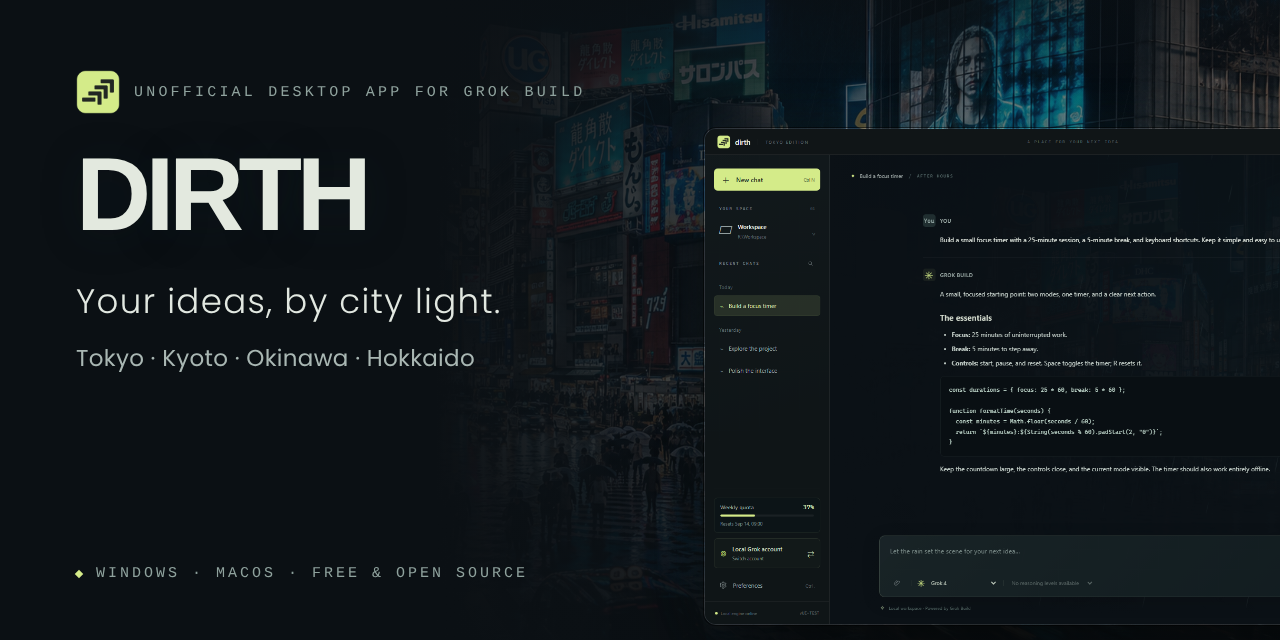
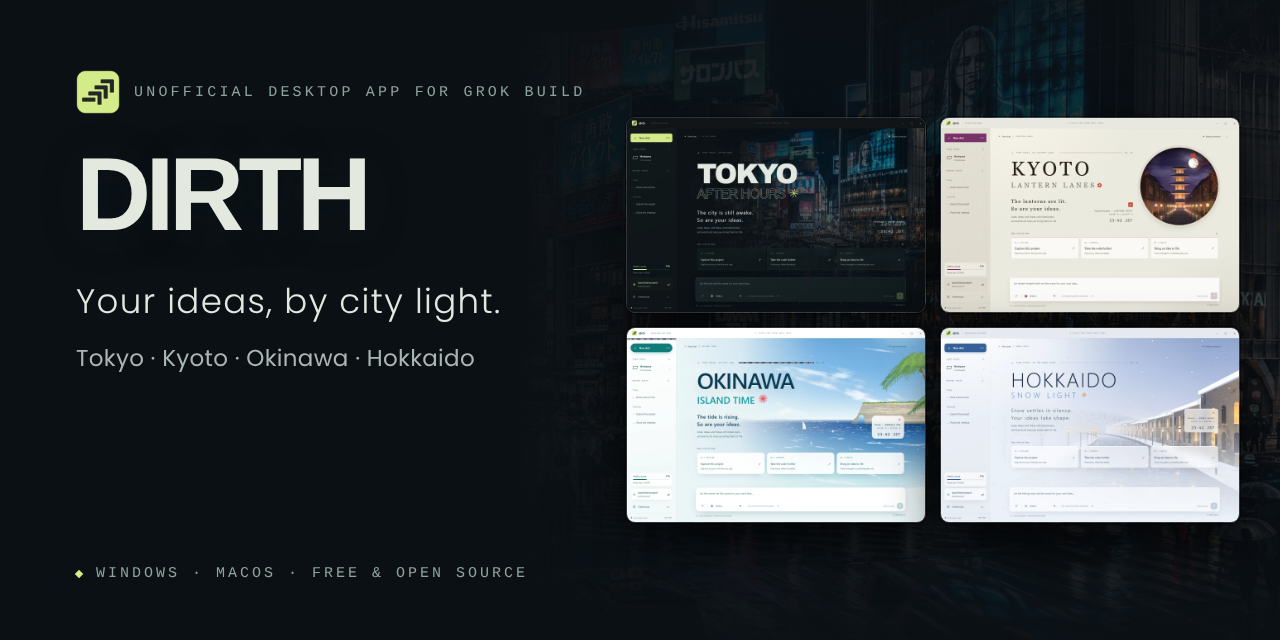
Show all four city editions on the README, and fix its broken links
The README's download buttons, badges, issue links and clone command used
swf-cmd/dirth, an address that does not exist, so every download, the
release badge and "Report a bug" were broken on the repository's own page.
They now use swf-cmd/grokbuild-tokyo, and a short FAQ entry explains why
the repository keeps its earlier name.

The intro showed only Tokyo. A new "Four cities, one workspace" gallery
shows the real Windows welcome screen of Tokyo, Kyoto, Okinawa and Hokkaido
(English and Chinese), each with its weather and soundtrack, as WebP
images of about 80-180 KB each. The social preview card now shows the four
editions as well, and the compatibility notes record that Grok Build up to
1.0.70 keeps the protocol and session methods the app uses.

Claude-Session: https://claude.ai/code/session_01VCJSXizJQ3NMUPR7FMnUgs

diff --git a/docs/images/social-preview.html b/docs/images/social-preview.html
@@ -4,8 +4,9 @@
 <meta charset="utf-8">
 <!--
   Source for social-preview.png, the 1280 x 640 card GitHub shows when the repository
-  link is shared. It combines the real app-en.png capture with the app's background
-  and icon. See README.md in this folder for how to render it.
+  link is shared. It places the real welcome-screen captures of the four city
+  editions (the README's city gallery) beside the app's icon, over its Shibuya
+  background. See README.md in this folder for how to render it.
 -->
 <title>Dirth social preview</title>
 <style>
@@ -14,23 +15,20 @@
   html, body { width:1280px; height:640px; background:var(--bg); overflow:hidden; }
   body { position:relative; font-family:"Poppins", "Segoe UI", sans-serif; color:var(--text); }
 
-  /* City: right two thirds, fading into the solid left column like the app's backdrop */
-  .city { position:absolute; inset:0; background-image:url("../../src/renderer/assets/tokyo-rain.png"); background-size:cover; background-position:72% 30%; opacity:.92; }
+  /* City: right half, fading into the solid left column like the app's backdrop */
+  .city { position:absolute; inset:0; background-image:url("../../src/renderer/assets/tokyo-rain.png"); background-size:cover; background-position:72% 30%; opacity:.7; }
   .shade { position:absolute; inset:0;
     background:
-      linear-gradient(90deg, #0b1014 0%, #0b1014 34%, #0b1014d9 46%, #0b101470 66%, #0b101430 100%),
+      linear-gradient(90deg, #0b1014 0%, #0b1014 40%, #0b1014cc 54%, #0b101499 100%),
       linear-gradient(0deg, #0b1014e6 0%, #0b101400 38%),
       linear-gradient(180deg, #0b1014aa 0%, #0b101400 22%); }
-  .rain { position:absolute; inset:0; opacity:.22;
-    background-image: repeating-linear-gradient(103deg, transparent 0 22px, #cfe3ff22 22px 23px, transparent 23px 61px);
-    mask-image: linear-gradient(90deg, transparent 30%, #000 70%); }
 
-  /* App window */
-  .window { position:absolute; left:704px; top:128px; width:760px; border-radius:12px; overflow:hidden;
-    border:1px solid #ffffff1f; box-shadow: 0 30px 80px #000c, 0 0 0 1px #00000080, 0 0 60px #6fb7c418; }
-  .window img { display:block; width:100%; }
+  /* The four city editions, as real app windows */
+  .cities { position:absolute; left:626px; top:117px; display:grid; grid-template-columns:repeat(2, 300px); gap:14px; }
+  .cities img { display:block; width:300px; height:196px; border-radius:9px; border:1px solid #ffffff26;
+    box-shadow: 0 22px 50px #000b, 0 0 0 1px #00000080; }
 
-  .copy { position:absolute; left:76px; top:70px; width:600px; }
+  .copy { position:absolute; left:76px; top:70px; width:540px; }
   .eyebrow { display:flex; align-items:center; gap:14px; font-family:"Liberation Mono", Consolas, monospace; font-size:15px; letter-spacing:3.2px; color:#8fa29d; text-transform:uppercase; }
   .eyebrow img { width:44px; height:44px; }
   .title { margin-top:34px; font-family:"Liberation Sans", Arial, sans-serif; font-weight:700; line-height:.9; }
@@ -43,9 +41,13 @@
 </head>
 <body>
   <div class="city"></div>
-  <div class="rain"></div>
   <div class="shade"></div>
-  <div class="window"><img src="app-en.png" alt=""></div>
+  <div class="cities">
+    <img src="city-tokyo-en.webp" alt="">
+    <img src="city-kyoto-en.webp" alt="">
+    <img src="city-okinawa-en.webp" alt="">
+    <img src="city-hokkaido-en.webp" alt="">
+  </div>
   <div class="copy">
     <div class="eyebrow"><img src="../../src/renderer/assets/icon.png" alt="">Unofficial desktop app for Grok Build</div>
     <div class="title"><span class="solid">DIRTH</span></div>

diff --git a/README.md b/README.md
@@ -6,21 +6,21 @@
 
 **Your ideas, by city light.**
 
-A desktop app for the [Grok Build](https://x.ai/cli) coding agent: streaming chats, parallel tasks and separate accounts, with a city outside the window: rainy Tokyo nights, Kyoto lanterns, the Okinawa sea or Hokkaido snow.
+A desktop app for [Grok Build](https://x.ai/cli), SpaceXAI's terminal coding agent. Streaming chats, up to four tasks at once and separate account profiles, with a Japanese city outside the window: rainy Tokyo, lantern-lit Kyoto, sunny Okinawa or snowy Hokkaido.
 
 **English** · [简体中文](README.zh-CN.md)
 
-[![Tests](https://github.com/swf-cmd/dirth/actions/workflows/test.yml/badge.svg)](https://github.com/swf-cmd/dirth/actions/workflows/test.yml)
-[![Latest release](https://img.shields.io/github/v/release/swf-cmd/dirth?label=release&color=c1adff)](https://github.com/swf-cmd/dirth/releases/latest)
+[![Tests](https://github.com/swf-cmd/grokbuild-tokyo/actions/workflows/test.yml/badge.svg)](https://github.com/swf-cmd/grokbuild-tokyo/actions/workflows/test.yml)
+[![Latest release](https://img.shields.io/github/v/release/swf-cmd/grokbuild-tokyo?label=release&color=c1adff)](https://github.com/swf-cmd/grokbuild-tokyo/releases/latest)
 [![MIT License](https://img.shields.io/badge/license-MIT-71d6c6)](LICENSE)
 ![Windows x64](https://img.shields.io/badge/platform-Windows_x64-86b7f9)
 ![macOS 13+ · Intel + Apple Silicon](https://img.shields.io/badge/macOS-13%2B_Intel_%2B_Apple_Silicon-86b7f9)
 
-**[Download for Mac](https://github.com/swf-cmd/dirth/releases/download/v1.3.0/Dirth-1.3.0-mac-universal.zip) · [Download for Windows](https://github.com/swf-cmd/dirth/releases/download/v1.3.0/Dirth-1.3.0-win-x64.zip) · [All releases](https://github.com/swf-cmd/dirth/releases)**
+**[Download for Mac](https://github.com/swf-cmd/grokbuild-tokyo/releases/download/v1.3.0/Dirth-1.3.0-mac-universal.zip) · [Download for Windows](https://github.com/swf-cmd/grokbuild-tokyo/releases/download/v1.3.0/Dirth-1.3.0-win-x64.zip) · [All releases](https://github.com/swf-cmd/grokbuild-tokyo/releases)**
 
 <sub>Free and open source · Unofficial · Uses the official <a href="#install-grok-build">Grok Build CLI</a>, installed separately · Formerly Grokbuild Tokyo</sub>
 
-[Quick start](#quick-start) · [Features](#made-for-long-evenings-of-building) · [FAQ](#faq) · [User guide](docs/guide.md) · [Contribute](CONTRIBUTING.md) · [Report a bug](https://github.com/swf-cmd/dirth/issues/new/choose)
+[Quick start](#quick-start) · [Four cities](#four-cities-one-workspace) · [Features](#made-for-long-evenings-of-building) · [FAQ](#faq) · [User guide](docs/guide.md) · [Contribute](CONTRIBUTING.md) · [Report a bug](https://github.com/swf-cmd/grokbuild-tokyo/issues/new/choose)
 
 </div>
 
@@ -28,21 +28,52 @@ A desktop app for the [Grok Build](https://x.ai/cli) coding agent: streaming cha
 
 *Animated rain in the Windows interface, using an isolated demo profile. Mac uses native window controls and Command-key shortcuts. [Still image](docs/images/welcome-en.png?v=20261020) · [Capture details](docs/images/README.md).*
 
-[Grok Build](https://x.ai/cli) is the terminal coding agent from SpaceXAI (formerly xAI). Dirth is an **unofficial, open-source desktop app** for it: it starts the Grok Build CLI you installed and talks to it over the [Agent Client Protocol](https://agentclientprotocol.com/) (ACP). Your sign-in, models, tools, permission rules, MCP servers and skills stay exactly as the CLI configures them. The app gives them a window worth keeping open.
+[Grok Build](https://x.ai/cli) is the terminal coding agent from SpaceXAI (formerly xAI). Dirth is an **unofficial, open-source desktop app** for it: it starts the Grok Build CLI you installed and talks to it over the [Agent Client Protocol](https://agentclientprotocol.com/) (ACP), the same protocol editors use to embed it. Your sign-in, models, tools, permission rules, MCP servers and skills stay exactly as the CLI configures them. The app gives them a window worth keeping open.
 
 This project is not affiliated with or endorsed by SpaceXAI or xAI. Authentication, model access and usage are handled by the official CLI and your account.
+
+## Four cities, one workspace
+
+Pick a city in **Preferences** and the whole app follows: colors, type, the view outside the window, its weather and an original soundtrack that plays offline. Tokyo is the dark night edition; Kyoto, Okinawa and Hokkaido are light editions.
+
+<table>
+  <tr>
+    <td width="50%" valign="top">
+      <a href="docs/images/city-tokyo-en.webp"><img src="docs/images/city-tokyo-en.webp" alt="Tokyo edition: the dark interface over the Shibuya crossing on a rainy night" /></a>
+      <br /><b>Tokyo</b> · rain over Shibuya
+      <br /><sub><i>Tokyo Afterimage</i>: warm electric piano, synths and slow beats</sub>
+    </td>
+    <td width="50%" valign="top">
+      <a href="docs/images/city-kyoto-en.webp"><img src="docs/images/city-kyoto-en.webp" alt="Kyoto edition: washi-paper interface with serif type and a round window onto a lantern-lit pagoda" /></a>
+      <br /><b>Kyoto</b> · maple leaves in Higashiyama
+      <br /><sub><i>Kyoto Lanterns</i>: plucked koto, bamboo flute and distant temple bells</sub>
+    </td>
+  </tr>
+  <tr>
+    <td width="50%" valign="top">
+      <a href="docs/images/city-okinawa-en.webp"><img src="docs/images/city-okinawa-en.webp" alt="Okinawa edition: bright interface over an emerald sea with a palm tree and a sailboat" /></a>
+      <br /><b>Okinawa</b> · sun glitter on the sea at Onna
+      <br /><sub><i>Okinawa Island Time</i>: sanshin-style plucks and a gently swaying beat</sub>
+    </td>
+    <td width="50%" valign="top">
+      <a href="docs/images/city-hokkaido-en.webp"><img src="docs/images/city-hokkaido-en.webp" alt="Hokkaido edition: frosted-glass interface with snow falling on the Otaru canal" /></a>
+      <br /><b>Hokkaido</b> · snow on the Otaru canal
+      <br /><sub><i>Hokkaido Snowlight</i>: music box, soft piano and crystalline synths</sub>
+    </td>
+  </tr>
+</table>
+
+The soundtrack is on by default: turn it off or set its volume in **Preferences**, where the weather has its own switch. The weather also stays still when your system asks for reduced motion.
 
 ## Made for long evenings of building
 
 | Experience | What you can do |
 | --- | --- |
-| **A place to focus** | A city outside the window, optional animated weather and an original offline soundtrack for each city. |
-| **Four city editions** | Switch between Tokyo, Kyoto, Okinawa and Hokkaido: Tokyo stays the rain-dark night edition, while Kyoto (washi and ink), Okinawa (sunlit sea) and Hokkaido (snow and frosted glass) are light daylight editions. Each brings its own colors, type, backdrop, weather outside the window (rain, maple leaves, sea glitter, snow) and original soundtrack. |
 | **Several tasks at once** | Run up to four conversations in parallel, each with its own progress, permission prompts, stop button and draft. |
-| **Conversations that stay with you** | Stream Markdown and code, search and rename chats, restore sessions and export Markdown. |
 | **See the agent at work** | Follow tool progress and execution plans, answer each permission request and stop generation at any time. |
-| **Separate account profiles** | Add, sign in, switch, rename and remove profiles, each with its own login state and history. |
+| **Conversations that stay with you** | Stream Markdown and code, search and rename chats, restore sessions and export Markdown. If the app or computer stops mid-reply, the part that had arrived is restored on the next launch. |
 | **Images and files** | Pick files, drop them onto the message composer or paste images; preview image replies and save returned files. |
+| **Separate account profiles** | Add, sign in, switch, rename and remove profiles, each with its own login state and history. |
 | **Your quota at a glance** | See how much of the account's Grok allowance is used and when it resets, right in the sidebar. |
 | **Controls from your CLI** | Model choices and reasoning levels come from the CLI and update automatically; choose subagent settings and a workspace. |
 | **Seven interface languages** | English, 简体中文, 日本語, 한국어, Español, Deutsch and Français. |
@@ -73,12 +104,12 @@ If you have already signed in to Grok Build in a terminal, the app reuses the si
 
 ### Downloads
 
-**[Get the latest release](https://github.com/swf-cmd/dirth/releases/latest)**: public downloads, with no GitHub sign-in required. Coming from Grokbuild Tokyo (v1.2.5 or earlier)? Quit it first, then install as below; your chats and settings carry over (see [Your data](#your-data)).
+**[Get the latest release](https://github.com/swf-cmd/grokbuild-tokyo/releases/latest)**: public downloads, with no GitHub sign-in required. Coming from Grokbuild Tokyo (v1.2.5 or earlier)? Quit it first, then install as below; your chats and settings carry over (see [Your data](#your-data)).
 
 | v1.3.0 download | Requirements | Checksum |
 | --- | --- | --- |
-| **[Mac universal ZIP](https://github.com/swf-cmd/dirth/releases/download/v1.3.0/Dirth-1.3.0-mac-universal.zip)** | macOS 13 Ventura or later · Intel and Apple Silicon | [SHA-256](https://github.com/swf-cmd/dirth/releases/download/v1.3.0/Dirth-1.3.0-mac-universal.zip.sha256) |
-| **[Windows x64 portable ZIP](https://github.com/swf-cmd/dirth/releases/download/v1.3.0/Dirth-1.3.0-win-x64.zip)** | Windows x64 · complete app folder, no installer | [SHA-256](https://github.com/swf-cmd/dirth/releases/download/v1.3.0/Dirth-1.3.0-win-x64.zip.sha256) |
+| **[Mac universal ZIP](https://github.com/swf-cmd/grokbuild-tokyo/releases/download/v1.3.0/Dirth-1.3.0-mac-universal.zip)** | macOS 13 Ventura or later · Intel and Apple Silicon | [SHA-256](https://github.com/swf-cmd/grokbuild-tokyo/releases/download/v1.3.0/Dirth-1.3.0-mac-universal.zip.sha256) |
+| **[Windows x64 portable ZIP](https://github.com/swf-cmd/grokbuild-tokyo/releases/download/v1.3.0/Dirth-1.3.0-win-x64.zip)** | Windows x64 · complete app folder, no installer | [SHA-256](https://github.com/swf-cmd/grokbuild-tokyo/releases/download/v1.3.0/Dirth-1.3.0-win-x64.zip.sha256) |
 
 - **Mac:** unzip once, then move **Dirth.app** to **Applications** (v1.2.5 and earlier are named **Grokbuild Tokyo.app**). The app uses an ad-hoc signature, without a Developer ID certificate or Apple notarization. If macOS blocks the first launch, verify that you downloaded it from this repository, then follow **System Settings → Privacy & Security → Open Anyway** ([Apple's instructions](https://support.apple.com/en-us/102445)).
 - **Windows:** extract the ZIP to a folder you can write to, then run **`App\Dirth.exe`** (**`App\Grokbuild Tokyo.exe`** in v1.2.5 and earlier). Keep the entire **`App`** folder together; this is a portable app, not an installer. To upgrade, replace the old **`App`** folder with the new one; `data` and `Workspace` beside it stay as they are. The app is not code-signed. If SmartScreen appears, verify the download source before using **More info → Run anyway**, if that option is available.
@@ -143,7 +174,7 @@ No. Signing in from the app uses the CLI's official browser login (`grok login -
 <details>
 <summary><b>Which Grok Build versions work?</b></summary>
 
-The live compatibility baseline is Grok Build **1.0.13 / ACP 1**, checked on Windows on 2026-09-07. Models, reasoning levels and other options are read from the connected CLI, so keep it current with `grok update`. The app does not expose every terminal feature, such as interactive terminals, Git/worktree management, session forks or the slash-command menu. See the [full compatibility notes](docs/guide.md#grok-compatibility).
+Live tests last ran against Grok Build **1.0.13 / ACP 1** on Windows, on 2026-09-07. Later releases, through 1.0.70, keep the ACP version, startup options and session methods the app uses, and the app reads models, reasoning levels and other options from whichever CLI it connects to, in the current form and the earlier one; keep yours current with `grok update`. The app does not expose every terminal feature, such as interactive terminals, Git/worktree management, session forks or the slash-command menu. See the [full compatibility notes](docs/guide.md#grok-compatibility).
 
 </details>
 
@@ -157,7 +188,7 @@ Yes: up to 10 files per message, 20 MB each and 50 MB in total. What the model c
 <details>
 <summary><b>Why does macOS or Windows warn me on first launch?</b></summary>
 
-The Mac app is ad-hoc signed and not notarized, and the Windows app is not code-signed. Make sure the download came from this repository's [releases](https://github.com/swf-cmd/dirth/releases), optionally verify its SHA-256 checksum, then follow the steps in [Downloads](#downloads).
+The Mac app is ad-hoc signed and not notarized, and the Windows app is not code-signed. Make sure the download came from this repository's [releases](https://github.com/swf-cmd/grokbuild-tokyo/releases), optionally verify its SHA-256 checksum, then follow the steps in [Downloads](#downloads).
 
 </details>
 
@@ -165,6 +196,13 @@ The Mac app is ad-hoc signed and not notarized, and the Windows app is not code-
 <summary><b>Does the app send my data anywhere?</b></summary>
 
 Chats are stored on your computer. The CLI sends prompts and tool context to the service, as it would in a terminal. Besides loading images and files that replies point to, the app's only network request of its own is the optional quota card, which you can turn off. See [How it connects](#how-it-connects) and [Your data](#your-data).
+
+</details>
+
+<details>
+<summary><b>Why is the repository called grokbuild-tokyo?</b></summary>
+
+The app started as Grokbuild Tokyo, with only the Tokyo edition, and was renamed Dirth in v1.3.0 when Kyoto, Okinawa and Hokkaido joined. The repository kept its address, so existing links and clones keep working.
 
 </details>
 
@@ -206,7 +244,7 @@ Remote images can contact public image hosts. Read the [security policy](SECURIT
 You need **Git**, **Node.js 22.13.0 or later** and npm; development and CI use Node.js 24. Installing dependencies and the first build download Electron, so they need internet access.
 
 ```sh
-git clone https://github.com/swf-cmd/dirth.git
+git clone https://github.com/swf-cmd/grokbuild-tokyo.git dirth
 cd dirth
 npm ci
 npm start
@@ -255,7 +293,7 @@ npm run test:all
 
 `test:all` runs ESLint, the JavaScript type check, unit tests and every offline UI suite. Tests use isolated fixtures and a mock CLI, so they make no real model requests. CI also audits dependencies, builds the Windows and universal Mac apps, and repeats the UI suites against the packaged builds on Windows, Apple Silicon and Intel Mac. See [CONTRIBUTING.md](CONTRIBUTING.md) for the complete checks, contribution workflow and opt-in live tests.
 
-Bug reports, focused fixes, translations and documentation improvements are welcome. Please use [private vulnerability reporting](https://github.com/swf-cmd/dirth/security/advisories/new) for sensitive security findings.
+Bug reports, focused fixes, translations and documentation improvements are welcome. Please use [private vulnerability reporting](https://github.com/swf-cmd/grokbuild-tokyo/security/advisories/new) for sensitive security findings.
 
 If Dirth keeps you company on late-night builds, starring the repository helps other people find it.
 

diff --git a/docs/images/README.md b/docs/images/README.md
@@ -1,10 +1,10 @@
 # Screenshot notes · 截图说明
 
-These screenshots show the real Dirth Electron interface on Windows at 1440 × 940 pixels. Mac uses the same interface content with native window controls and Command-key shortcuts. They were captured with Playwright using the repository's isolated `tests/fixtures/ui-app.cjs` test entry point. The main process, IPC bridge, renderer, and bundled Tokyo artwork are the production application; the CLI adapter is an offline test fixture.
+These screenshots show the real Dirth Electron interface on Windows at 1440 × 940 pixels. Mac uses the same interface content with native window controls and Command-key shortcuts. They were captured with Playwright using the repository's isolated `tests/fixtures/ui-app.cjs` test entry point. The main process, IPC bridge, renderer, and bundled city artwork are the production application; the CLI adapter is an offline test fixture.
 
 The focus-timer conversation is authored demo content, not a recorded model response. The visible `UI-TEST` engine label and model selection are fixture data and do not promise access to any particular model. The sidebar quota card shows a sample weekly allowance served by the fixture; no quota request reaches xAI. No personal conversations, login credentials, or paid model requests were used. `R:\Workspace` is a temporary alias to the isolated screenshot workspace.
 
-这些图片是 Windows 上 Dirth 真实 Electron 界面的 1440 × 940 像素截图；Mac 共用相同界面内容，使用原生窗口按钮和 Command 快捷键。截图通过 Playwright 和仓库中的隔离测试入口 `tests/fixtures/ui-app.cjs` 拍摄。主进程、IPC、界面及东京背景均来自实际应用，CLI 适配器使用离线模拟引擎。
+这些图片是 Windows 上 Dirth 真实 Electron 界面的 1440 × 940 像素截图；Mac 共用相同界面内容，使用原生窗口按钮和 Command 快捷键。截图通过 Playwright 和仓库中的隔离测试入口 `tests/fixtures/ui-app.cjs` 拍摄。主进程、IPC、界面及各城市背景均来自实际应用，CLI 适配器使用离线模拟引擎。
 
 专注计时器对话是为展示编写的示例内容，并非真实模型回复。界面中的 `UI-TEST` 引擎标记与模型选项属于测试数据，不代表特定模型的可用性。侧边栏额度卡片显示的是测试环境提供的示例周额度，不会向 xAI 查询额度。截图未使用个人聊天、登录凭据或付费模型请求。`R:\Workspace` 是隔离截图工作目录的临时路径别名。
 
@@ -16,27 +16,33 @@ The focus-timer conversation is authored demo content, not a recorded model resp
 | `welcome-zh-CN.png` | Simplified Chinese welcome screen / 简体中文欢迎页 |
 | `welcome-zh-CN.gif` | Simplified Chinese welcome screen with animated rain / 简体中文欢迎页雨滴动图 |
 | `app-zh-CN.png` | Simplified Chinese demo conversation / 简体中文示例对话 |
+| `city-{tokyo,kyoto,okinawa,hokkaido}-en.webp` | English welcome screen of each city edition, for the README's city gallery / 各城市版英文欢迎页，用于介绍页的城市图集 |
+| `city-{tokyo,kyoto,okinawa,hokkaido}-zh-CN.webp` | Simplified Chinese welcome screen of each city edition / 各城市版简体中文欢迎页 |
 | `social-preview.png` | Link preview card for the repository, rendered from `social-preview.html` / 仓库链接分享卡片，由 `social-preview.html` 生成 |
 
-Captured on 2026-10-20 with rain enabled. The README uses looping welcome-screen GIFs so the rain remains recognizable when the image is scaled down. Each GIF records three seconds of the two production rain animations at 20 frames per second. The PNGs retain a fixed frame of the same effect; rain is naturally subtler in conversations. No rain was painted onto the images and no production styles were changed for the captures.
+The Tokyo PNGs and GIFs were captured on 2026-10-20 with rain enabled. The README uses looping welcome-screen GIFs so the rain remains recognizable when the image is scaled down. Each GIF records three seconds of the two production rain animations at 20 frames per second. The PNGs retain a fixed frame of the same effect; rain is naturally subtler in conversations. No rain was painted onto the images and no production styles were changed for the captures.
 
-拍摄于 2026-10-20，开启了雨滴。介绍页使用循环播放的欢迎页 GIF，让缩小后的图片也能通过运动呈现下雨效果。每张 GIF 以每秒 20 帧记录应用原有的两层雨滴动画，共三秒。PNG 保留同一效果的固定帧，聊天界面中的雨滴按应用原本设计更淡。未在图片上后期添加雨滴，也未为拍摄修改应用样式。
+The city gallery was captured on 2026-10-26 with each city's weather enabled (rain, maple leaves, sea glitter or snow), paused mid-animation. Its images are the capture's lossless PNGs re-encoded as WebP at quality 92, which keeps them visually identical at a fraction of the size; nothing else was changed.
+
+东京的 PNG 与 GIF 拍摄于 2026-10-20，开启了雨滴。介绍页使用循环播放的欢迎页 GIF，让缩小后的图片也能通过运动呈现下雨效果。每张 GIF 以每秒 20 帧记录应用原有的两层雨滴动画，共三秒。PNG 保留同一效果的固定帧，聊天界面中的雨滴按应用原本设计更淡。未在图片上后期添加雨滴，也未为拍摄修改应用样式。
+
+城市图集拍摄于 2026-10-26，开启了各城市的天气（雨、红叶、海面波光或飘雪），并停在动画中途。图集由拍摄得到的无损 PNG 以质量 92 重新编码为 WebP，视觉上与原图一致，体积大幅缩小；除此之外未作任何修改。
 
 ## Reproduce / 重新拍摄
 
-On Windows, install dependencies with `npm ci`, then run `node scripts/capture-readme.cjs` for the PNGs. To also create the GIFs, install FFmpeg on `PATH` and run `node scripts/capture-readme.cjs --motion`. Alternatively, run the **README screenshots** workflow in GitHub Actions, which includes GIF capture, and download its `readme-screenshots` artifact.
+On Windows, install dependencies with `npm ci`, then run `node scripts/capture-readme.cjs` for the PNGs. It captures Tokyo's welcome screen and demo conversation, then the welcome screen of Kyoto, Okinawa and Hokkaido, in English and Simplified Chinese. To also create the GIFs, install FFmpeg on `PATH` and run `node scripts/capture-readme.cjs --motion`. Alternatively, run the **README screenshots** workflow in GitHub Actions, which includes GIF capture, and download its `readme-screenshots` artifact.
 
-Candidate images are written to `work/readme-capture/images/`. The `qa/` directory contains matching rain-on/rain-off captures and `results.json`, which checks rain rendering, motion, and an otherwise stable interface. Review the GIFs playing at README display size before copying them to `docs/images/`; pixel differences alone do not establish that rain is easy to see. The capture uses a fixed demo clock and isolated fixture data, with music muted and no real CLI requests.
+Candidate images are written to `work/readme-capture/images/`. The `qa/` directory contains matching weather-on/weather-off captures and `results.json`, which checks that each city's weather is rendered and paused mid-cycle, that hiding it changes nothing outside the main panel, and, for Tokyo, the rain's motion. Review the GIFs playing at README display size before copying them to `docs/images/`; pixel differences alone do not establish that rain is easy to see. The capture uses a fixed demo clock and isolated fixture data, with music muted and no real CLI requests. To make the gallery images, re-encode `welcome-en.png` and `welcome-<city>-<language>.png` as `city-<city>-<language>.webp` (for example with Pillow: `quality=92, method=6`).
 
-Windows 上先运行 `npm ci`，再运行 `node scripts/capture-readme.cjs` 生成 PNG。如需同时生成 GIF，将 FFmpeg 加入 `PATH` 后运行 `node scripts/capture-readme.cjs --motion`。也可在 GitHub Actions 手动运行包含动图拍摄的 **README screenshots** 工作流，下载 `readme-screenshots` 产物。
+Windows 上先运行 `npm ci`，再运行 `node scripts/capture-readme.cjs` 生成 PNG：先拍摄东京的欢迎页与示例对话，再拍摄京都、冲绳、北海道的欢迎页，各含英文与简体中文。如需同时生成 GIF，将 FFmpeg 加入 `PATH` 后运行 `node scripts/capture-readme.cjs --motion`。也可在 GitHub Actions 手动运行包含动图拍摄的 **README screenshots** 工作流，下载 `readme-screenshots` 产物。
 
-候选图片保存在 `work/readme-capture/images/`；`qa/` 中保留相同画面的雨滴开启/关闭对照图及 `results.json`，检查雨滴渲染、运动和其余界面的稳定性。复制到 `docs/images/` 前，应按介绍页实际显示尺寸检查 GIF 的播放效果；仅有像素变化不能证明雨滴容易辨认。拍摄使用固定演示时间与隔离测试数据，音乐静音，不调用真实 CLI。
+候选图片保存在 `work/readme-capture/images/`；`qa/` 中保留相同画面的天气开启/关闭对照图及 `results.json`，检查每座城市的天气已渲染并停在动画中途、隐藏天气后主面板以外没有变化，以及东京雨滴的运动。复制到 `docs/images/` 前，应按介绍页实际显示尺寸检查 GIF 的播放效果；仅有像素变化不能证明雨滴容易辨认。拍摄使用固定演示时间与隔离测试数据，音乐静音，不调用真实 CLI。城市图集由 `welcome-en.png` 与 `welcome-<城市>-<语言>.png` 重新编码为 `city-<城市>-<语言>.webp`（例如用 Pillow，`quality=92, method=6`）。
 
 ## Social preview / 社交预览图
 
-`social-preview.png` is the 1280 × 640 card that sites such as X show when the repository link is shared. `social-preview.html` places the unmodified `app-en.png` capture over the app's own Shibuya background and icon; no interface element is drawn by hand. Its text uses Liberation Sans, Liberation Mono and Poppins (SIL Open Font License), falling back to Arial, Consolas and Segoe UI; no font files are included in the repository.
+`social-preview.png` is the 1280 × 640 card that sites such as X show when the repository link is shared. `social-preview.html` places the four unmodified English city captures from the gallery over the app's own Shibuya background, beside its icon; no interface element is drawn by hand. Its text uses Liberation Sans, Liberation Mono and Poppins (SIL Open Font License), falling back to Arial, Consolas and Segoe UI; no font files are included in the repository.
 
-To update it after changing the text or the screenshot, install dependencies with `npm ci`, run `npx playwright install chromium` once, then:
+To update it after changing the text or the screenshots, install dependencies with `npm ci`, run `npx playwright install chromium` once, then:
 
 ```sh
 npx playwright screenshot --viewport-size="1280, 640" docs/images/social-preview.html docs/images/social-preview.png
@@ -44,6 +50,6 @@ npx playwright screenshot --viewport-size="1280, 640" docs/images/social-preview
 
 Keep the image under 1 MB. GitHub does not read it from the repository: upload it under **Settings → General → Social preview**.
 
-`social-preview.png` 是在 X 等网站分享仓库链接时显示的 1280 × 640 卡片。`social-preview.html` 将未经修改的 `app-en.png` 截图叠放在应用自带的涩谷背景与图标之上，没有手绘任何界面元素。文字使用 Liberation Sans、Liberation Mono 与 Poppins（SIL Open Font License），缺少时回退到 Arial、Consolas 与 Segoe UI；仓库不包含字体文件。
+`social-preview.png` 是在 X 等网站分享仓库链接时显示的 1280 × 640 卡片。`social-preview.html` 将图集中四张未经修改的英文城市截图叠放在应用自带的涩谷背景上，旁边是应用图标，没有手绘任何界面元素。文字使用 Liberation Sans、Liberation Mono 与 Poppins（SIL Open Font License），缺少时回退到 Arial、Consolas 与 Segoe UI；仓库不包含字体文件。
 
 修改文字或截图后，先运行 `npm ci`，首次还需运行 `npx playwright install chromium`，再执行上面的 `npx playwright screenshot` 命令重新生成。图片需小于 1 MB。GitHub 不会自动读取仓库中的这张图，需要在仓库的 **Settings → General → Social preview** 中上传。

diff --git a/docs/guide.md b/docs/guide.md
@@ -177,7 +177,7 @@ Real CLI checks are separate: run `node scripts/config-smoke.cjs` explicitly. Li
 
 ### Grok compatibility
 
-The historical live compatibility baseline is locally installed Grok Build **1.0.13 / ACP 1**, checked on Windows on 2026-09-07. Mac uses the same ACP implementation, but mock UI and package checks do not establish live model validation on Mac. Chat, session restoration, model/reasoning selection, tool execution, permission requests, and subagents run through the official CLI. The CLI handles file access, terminals, MCP, Skills, plugins, and sandboxing according to its own configuration; the desktop client does not take over file or terminal execution. Whether a permission prompt appears depends on the official permission mode, rules, and saved grants.
+The historical live compatibility baseline is locally installed Grok Build **1.0.13 / ACP 1**, checked on Windows on 2026-09-07. Later releases were inspected rather than tested live: the open-source CLI code (1.0.45) and the 1.0.70 release still provide the ACP version, the `agent --no-leader stdio` startup, `session/load`, both `session/set_config_option` and the earlier `session/set_model`, permission requests and `login --device-auth` that the client uses. Mac uses the same ACP implementation, but mock UI and package checks do not establish live model validation on Mac. Chat, session restoration, model/reasoning selection, tool execution, permission requests, and subagents run through the official CLI. The CLI handles file access, terminals, MCP, Skills, plugins, and sandboxing according to its own configuration; the desktop client does not take over file or terminal execution. Whether a permission prompt appears depends on the official permission mode, rules, and saved grants.
 
 This CLI version advertises `image: false` and `audio: false` over ACP. Images and files are passed to CLI tools through baseline `resource_link` content with accurate local paths; the client does not claim unread files have been embedded. Replies still support image previews and saving attachments. The client does not provide dedicated controls for every `x.ai/*` extension or TUI-specific command, including Git/worktree management, session branching/rewind, interactive terminals, or slash-command menus. It therefore does not cover every feature of the official TUI. Incompatible protocols and engines that cannot restore history produce explicit notices.
 

diff --git a/docs/guide.zh-CN.md b/docs/guide.zh-CN.md
@@ -175,7 +175,7 @@ node tests/ui-attachments.cjs --packaged
 
 ### Grok 兼容范围
 
-历史真实兼容性基线为 2026-09-07 核查的 Windows 本机 Grok Build **1.0.13 / ACP 1**。Mac 共用同一套 ACP 实现，但模拟界面与打包检查不代表已经完成 Mac 真实模型验证。聊天、会话恢复、模型/推理切换、工具执行、权限请求和子代理通过官方 CLI；文件读写、终端、MCP、Skills、插件和沙箱由 CLI 按自身配置处理，客户端不宣称接管文件或终端执行。权限提示是否出现取决于官方权限模式、规则和已保存授权。
+历史真实兼容性基线为 2026-09-07 核查的 Windows 本机 Grok Build **1.0.13 / ACP 1**。之后的版本经过静态核查（未做真实测试）：开源 CLI 代码（1.0.45）与 1.0.70 发布版仍提供客户端使用的 ACP 版本、`agent --no-leader stdio` 启动方式、`session/load`、`session/set_config_option` 与早期的 `session/set_model`、权限请求以及 `login --device-auth`。Mac 共用同一套 ACP 实现，但模拟界面与打包检查不代表已经完成 Mac 真实模型验证。聊天、会话恢复、模型/推理切换、工具执行、权限请求和子代理通过官方 CLI；文件读写、终端、MCP、Skills、插件和沙箱由 CLI 按自身配置处理，客户端不宣称接管文件或终端执行。权限提示是否出现取决于官方权限模式、规则和已保存授权。
 
 该版本通过 ACP 宣告 `image: false`、`audio: false`；图片和文件通过基线 `resource_link` 与准确的本地路径交给 CLI 工具处理，不把未读取的文件宣称为已经内嵌。回复仍支持图片预览及附件保存。客户端没有为所有 `x.ai/*` 扩展或 TUI 专用命令提供独立界面（例如 Git/worktree 管理、会话分叉/回退、交互终端与斜杠菜单），不能等同于官方 TUI 的全部功能。遇到不兼容的协议或不支持历史恢复的引擎，现在会明确提示。
 
